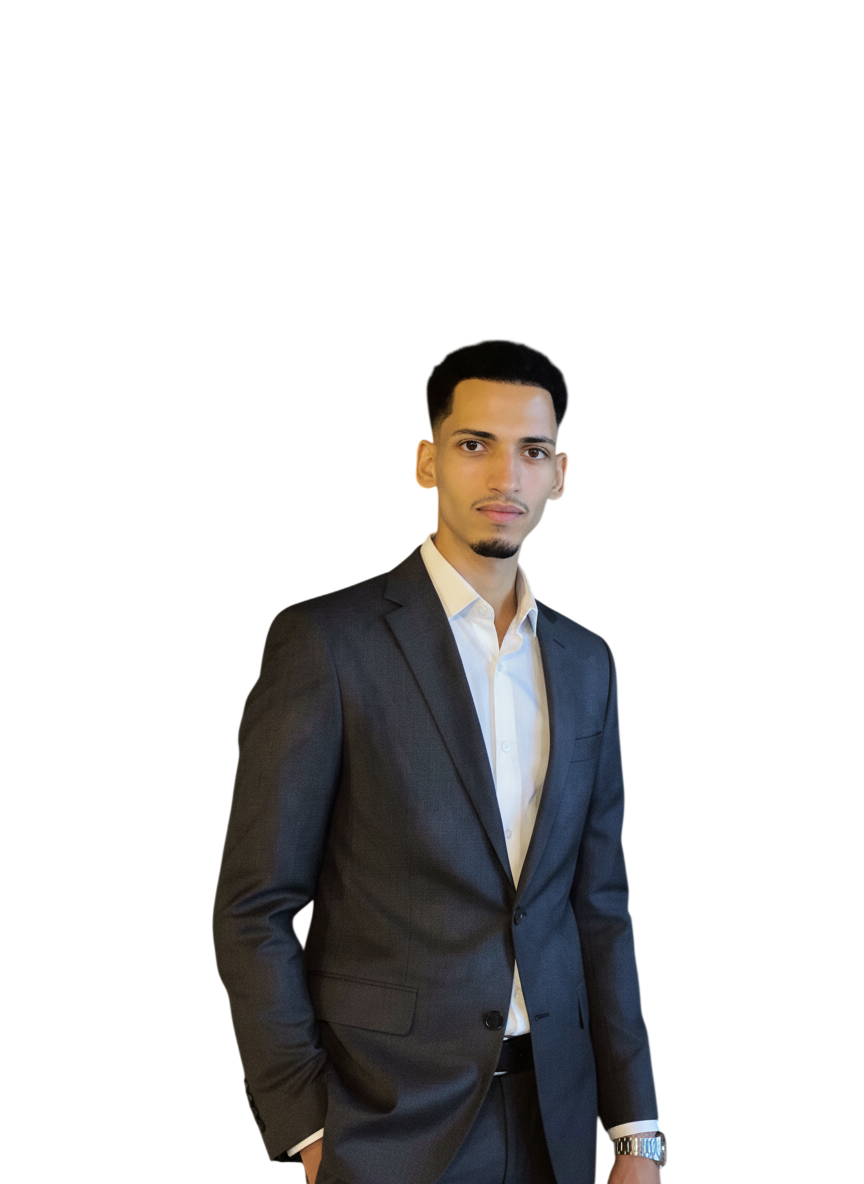
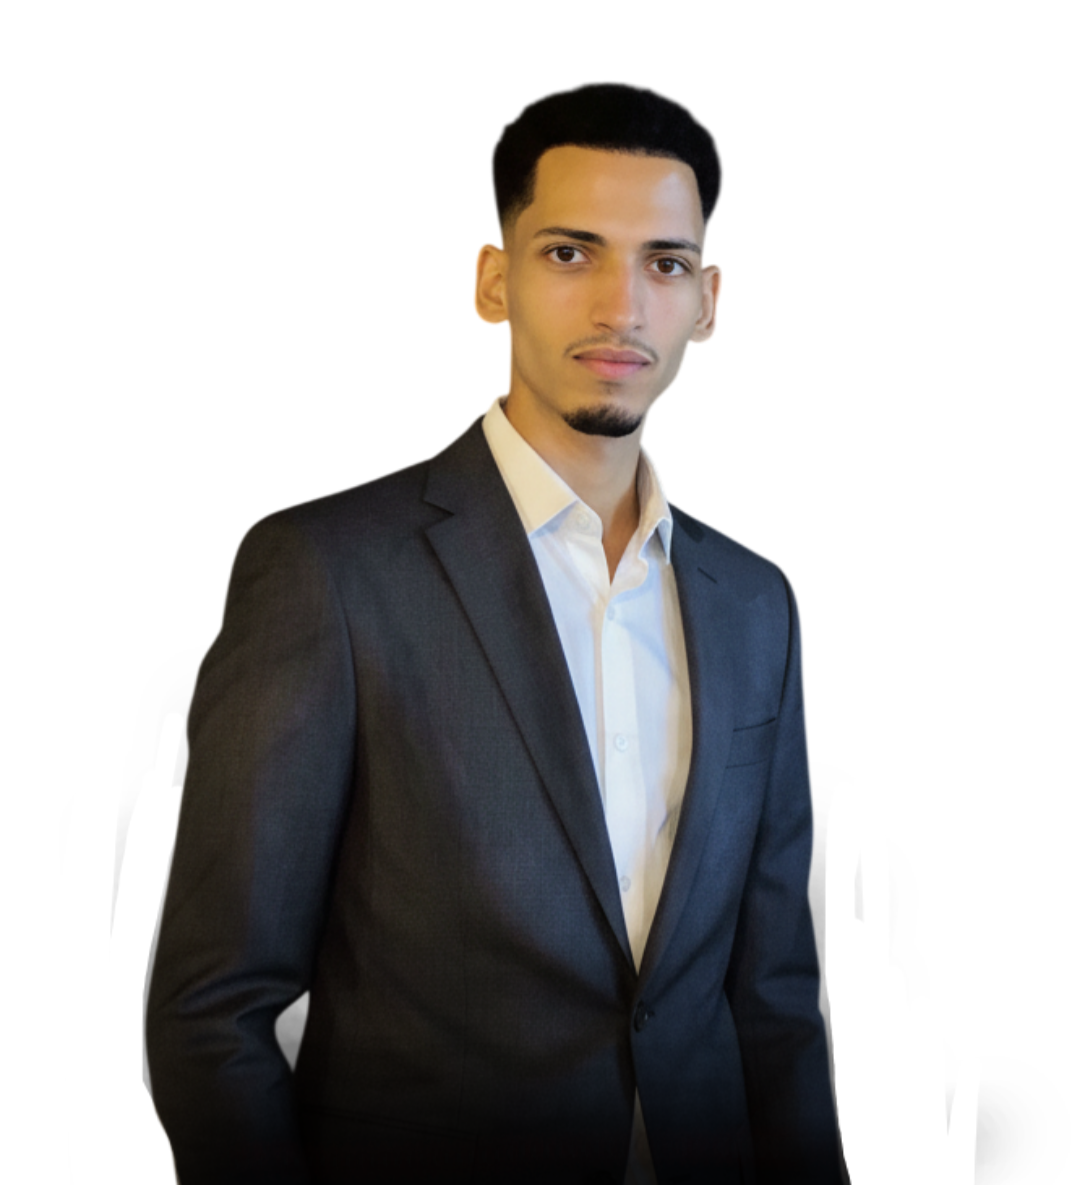
`Refactor Hero component to use HTMLCanvasElement and update image placeholder`

Changed region(s): [[0.125, 0.0625, 0.8125, 1.0]]

diff --git a/components/sections/Hero.tsx b/components/sections/Hero.tsx
@@ -3,14 +3,16 @@
 import { useRef, useEffect, useState } from "react";
 
 export default function Hero() {
-  const canvasRef = useRef(null);
+  const canvasRef = useRef<HTMLCanvasElement>(null);
   const mouseRef = useRef({ x: 0, y: 0, targetX: 0, targetY: 0 });
   useEffect(() => {
     const canvas = canvasRef.current;
     if (!canvas) return;
 
     const ctx = canvas.getContext('2d');
-    let animationFrameId;
+    if (!ctx) return;
+
+    let animationFrameId: number;
     let rotation = 0;
     let time = 0;
 
@@ -21,7 +23,7 @@ export default function Hero() {
     resize();
     window.addEventListener('resize', resize);
 
-    const handleMouseMove = (e) => {
+    const handleMouseMove = (e: MouseEvent) => {
       mouseRef.current.targetX = (e.clientX / window.innerWidth - 0.5) * 2;
       mouseRef.current.targetY = (e.clientY / window.innerHeight - 0.5) * 2;
     };
@@ -185,20 +187,14 @@ export default function Hero() {
 
         {/* Center Image */}
         <div className="flex-shrink-0 relative">
-          <div className="relative w-96 h-96">
-            {/* Wireframe Ring */}
-            <div className="absolute inset-0 rounded-full border border-white/10"
-              style={{
-                background: 'conic-gradient(from 0deg, transparent, rgba(255,255,255,0.05), transparent)',
-                animation: 'spin 20s linear infinite'
-              }}
-            ></div>
-
-            {/* Placeholder for your image */}
-            <div className="absolute inset-8 rounded-full bg-gradient-to-br from-gray-800 to-gray-900 flex items-center justify-center overflow-hidden">
-              <div className="w-full h-full bg-gray-700 flex items-center justify-center text-white/30">
-                YOUR IMAGE
-              </div>
+          <div className="relative w-[300px] h-[450px] lg:w-[500px] lg:h-[500px] group">
+            {/* Your image */}
+            <div className="absolute bg-transparent flex items-center justify-center overflow-hidden">
+              <img
+                src="/images/my_image.png"
+                alt="Your Image"
+                className="w-full h-full object-contain"
+              />
             </div>
           </div>
 
